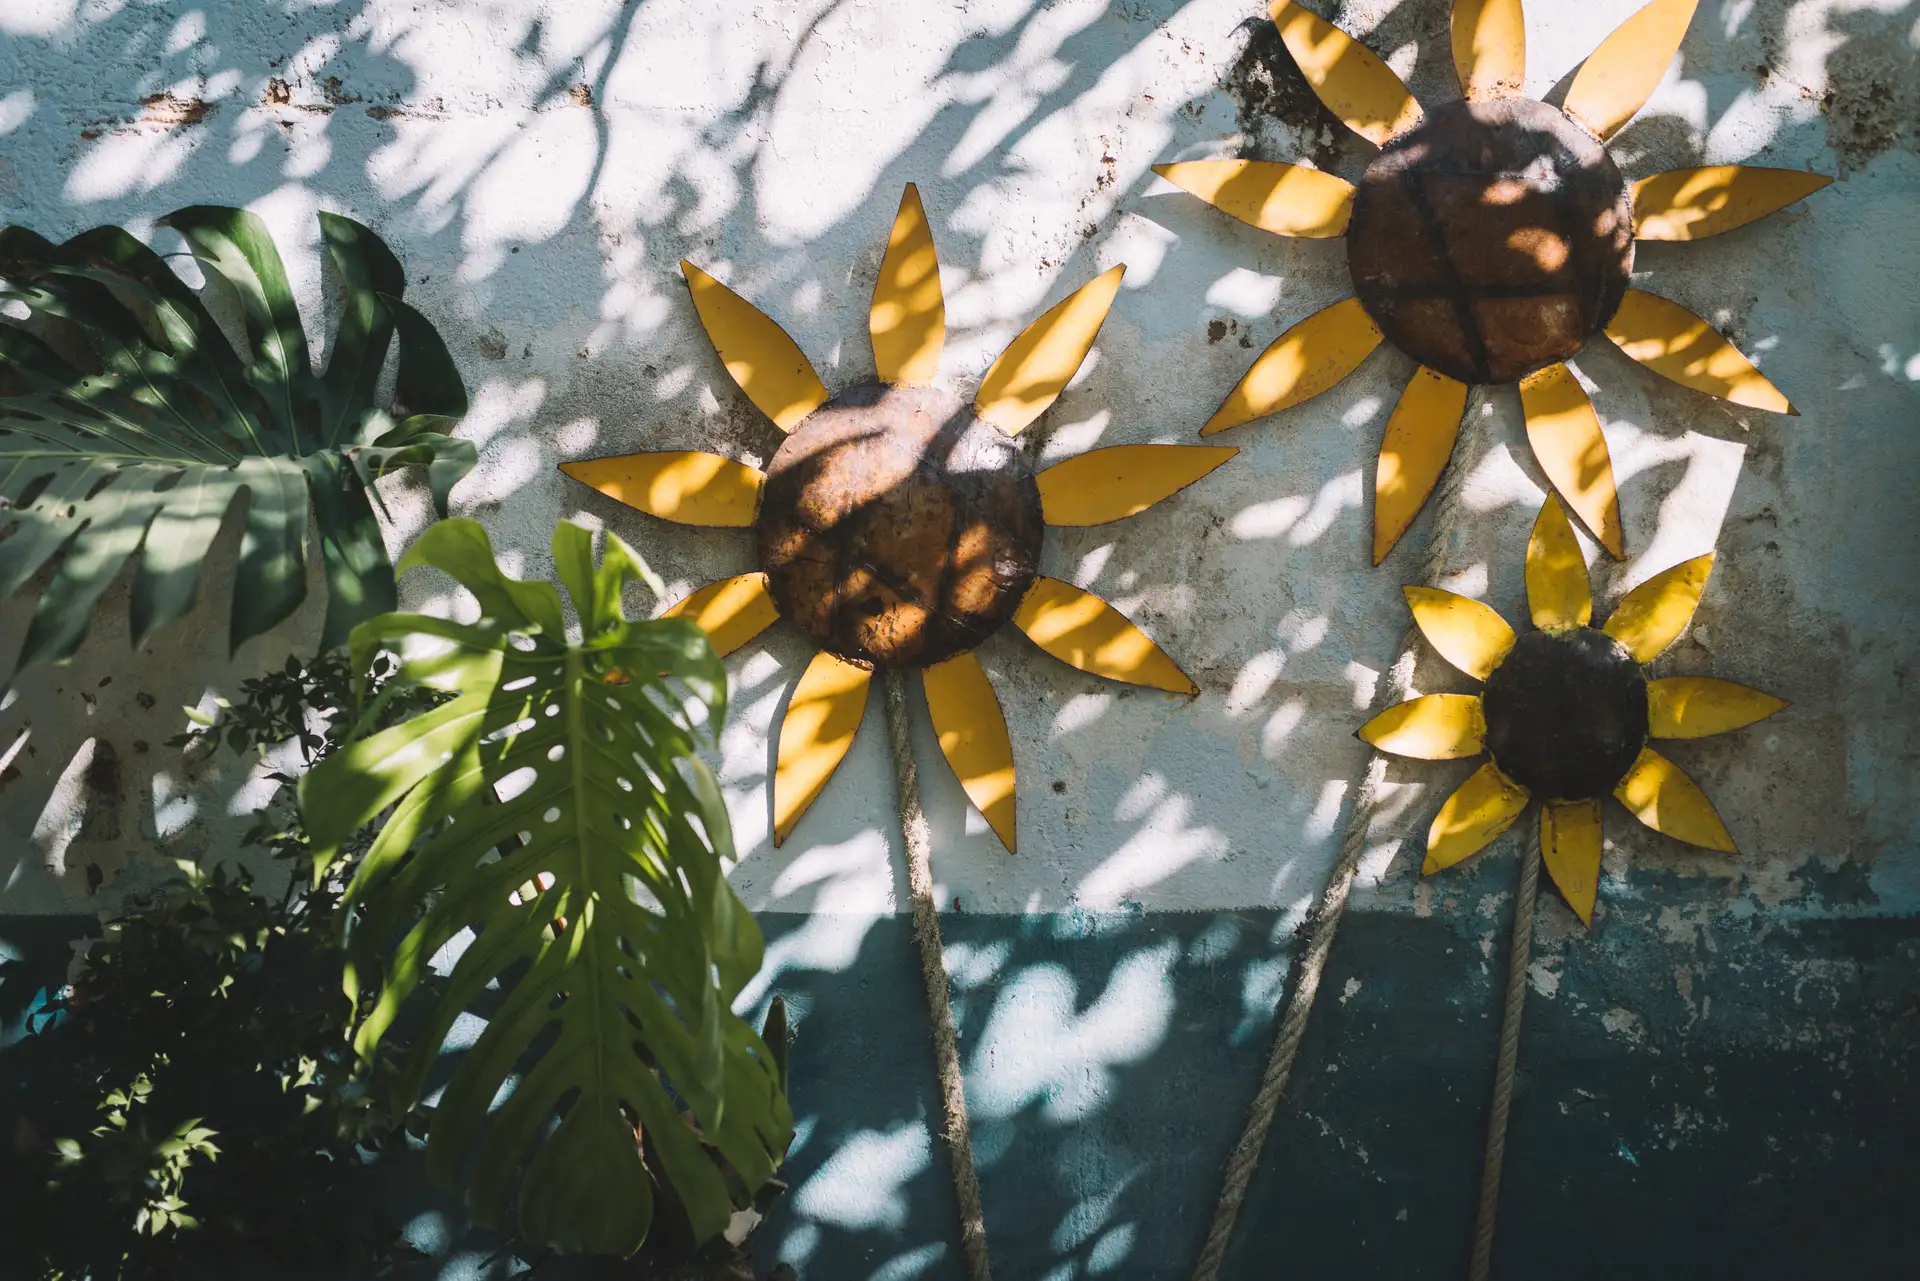
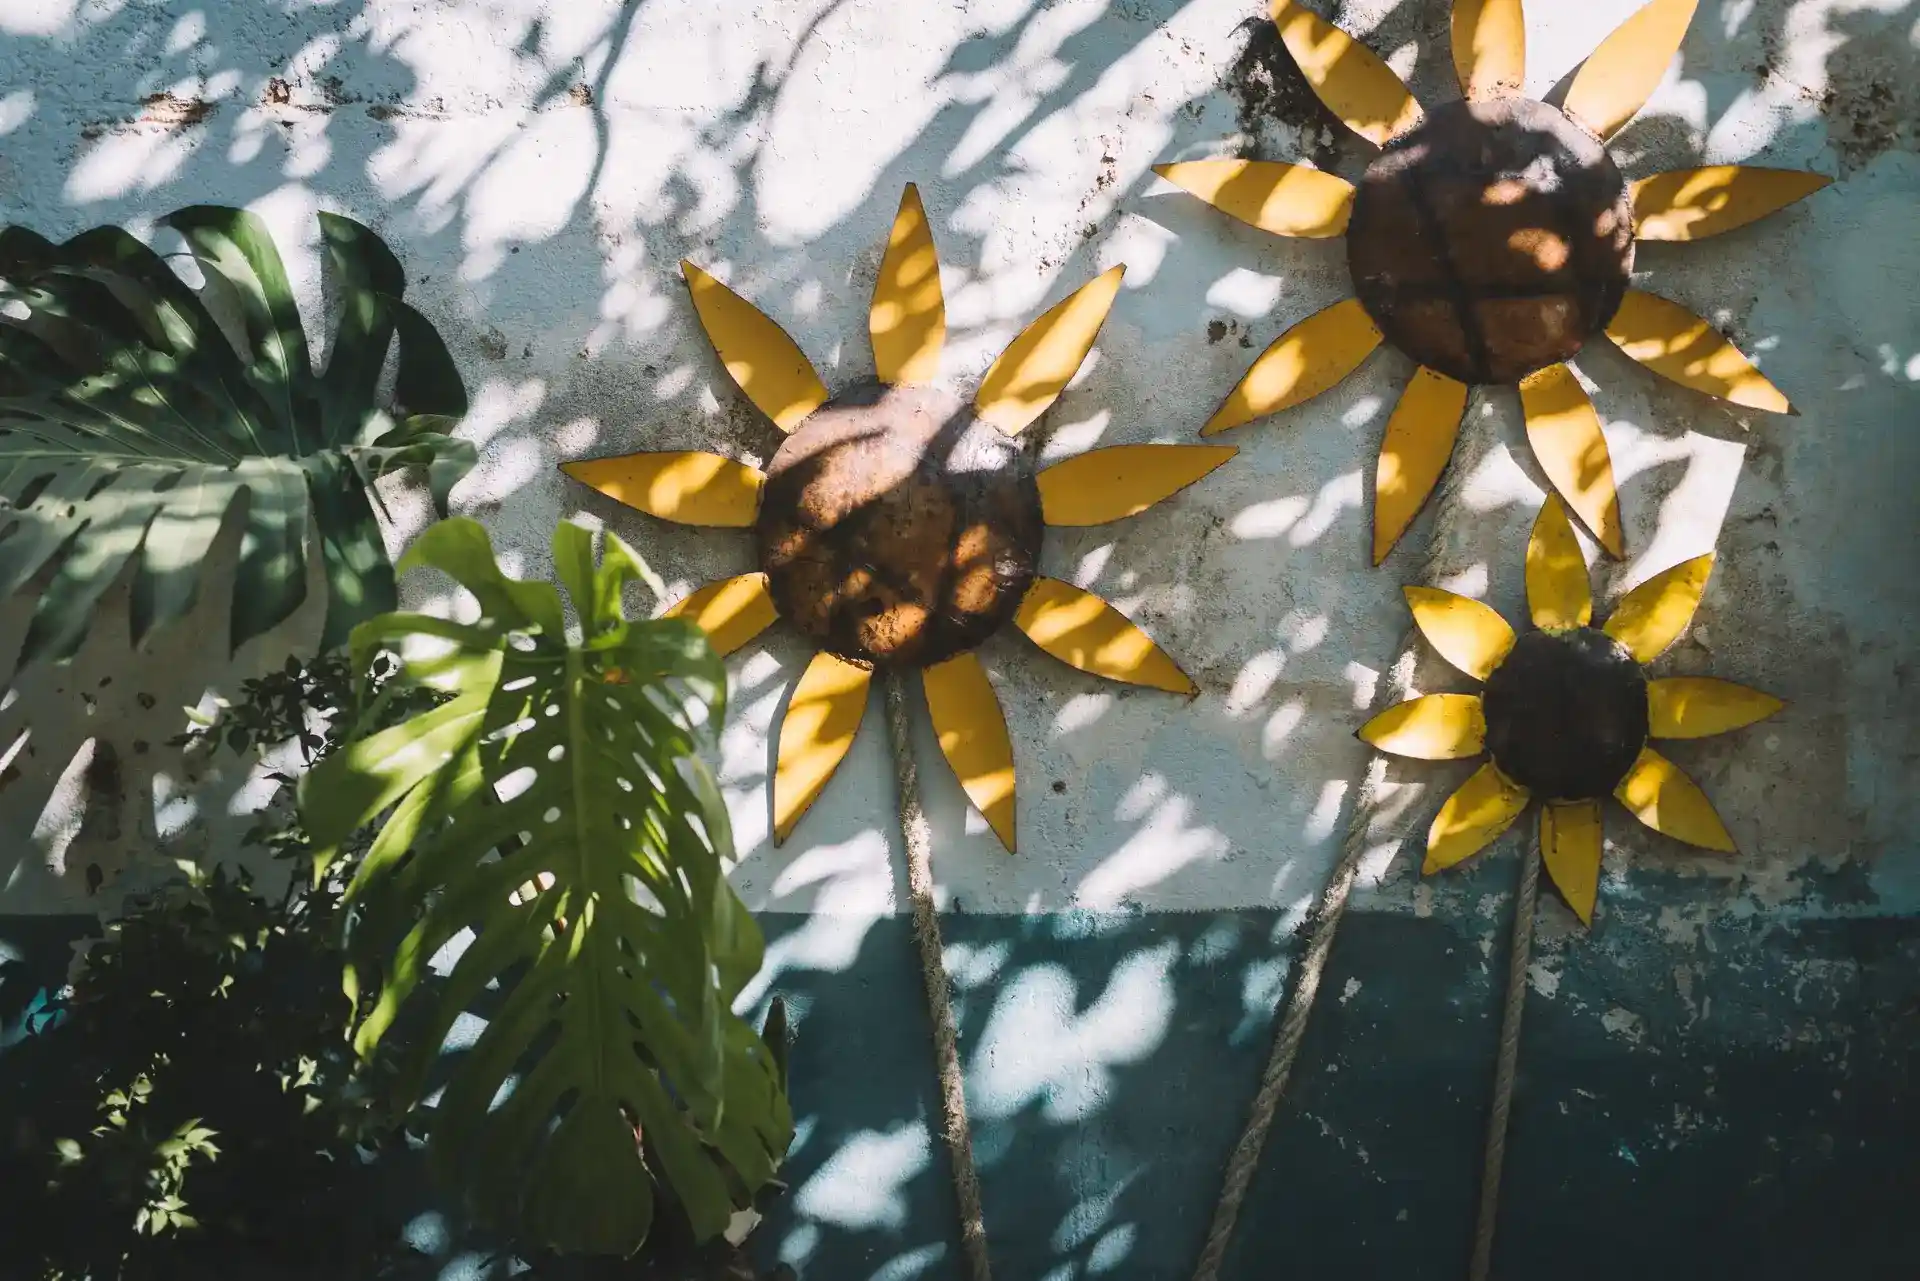
adsda

diff --git a/src/css/style.css b/src/css/style.css
@@ -452,9 +452,9 @@
         background: var(--clr-bg-green-gradient);
         opacity: 0.95;
         border-radius: 1.5rem;
-        box-shadow:
+        /* box-shadow:
           0 3px 14px rgba(0, 0, 0, 0.25),
-          inset 0 0 0 1px rgba(0, 0, 0, 0.08);
+          inset 0 0 0 1px rgba(0, 0, 0, 0.08); */
 
         &::before {
           content: "";
@@ -466,7 +466,7 @@
           background: var(--clr-green-300);
           border-radius: 50%;
           transform: translateX(-50%);
-          box-shadow: 0 2px 4px rgba(0, 0, 0, 0.4);
+          /* box-shadow: 0 2px 4px rgba(0, 0, 0, 0.4); */
 
           @media (width > 62.5rem) {
             width: 0.5rem;
@@ -528,7 +528,7 @@
     opacity: 1;
     translate: -50% -50%;
     rotate: -10deg;
-    filter: drop-shadow(4px 2px 2px rgba(0, 0, 0, 0.45));
+    /* filter: drop-shadow(4px 2px 2px rgba(0, 0, 0, 0.45)); */
     border-radius: 2rem;
 
     @media (width > 62.5rem) {
@@ -554,10 +554,10 @@
     width: 100%;
     border-radius: 0.75rem;
     cursor: pointer;
-    box-shadow:
+    /* box-shadow:
       0 6px 12px rgba(0, 0, 0, 0.4),
       0 4px 8px rgba(0, 0, 0, 0.2),
-      0 0 0 1px rgba(255, 255, 255, 0.04);
+      0 0 0 1px rgba(255, 255, 255, 0.04); */
   }
 
   .gallery-book-svg-box__wrapper--beer-fest {
@@ -641,12 +641,12 @@
       object-fit: cover;
       border-radius: 20px;
       opacity: 0;
-      box-shadow: 2px 2px 10px rgba(0, 0, 0, 0.533);
+      /* box-shadow: 2px 2px 10px rgba(0, 0, 0, 0.533); */
       cursor: pointer !important;
 
       &:hover {
         animation: vibrate 3s linear infinite;
-        box-shadow: 3px 3px 15px rgba(0, 0, 0, 0.703);
+        /* box-shadow: 3px 3px 15px rgba(0, 0, 0, 0.703); */
       }
 
       @media (width > 35rem) {
@@ -666,7 +666,7 @@
     text-transform: uppercase;
     cursor: pointer;
     border: none;
-    box-shadow: 3px 2px 4px var(--clr-lighter-black);
+   /*  box-shadow: 3px 2px 4px var(--clr-lighter-black); */
     z-index: 20;
     transition:
       transform 0.2s ease-out,
@@ -695,7 +695,6 @@
     border: none;
     font-size: 2rem;
     cursor: pointer;
-    box-shadow: 0 4px 8px rgba(0, 0, 0, 0.2);
     align-items: center;
     justify-content: center;
     z-index: 1000;

diff --git a/.eleventy.js b/.eleventy.js
@@ -3,7 +3,7 @@ export default function (eleventyConfig) {
     "./src/css": "css",
     "./src/js": "js",
     "./src/admin": "admin",
-    "./src/assets": "assets",
+    /* "./src/assets": "assets", */
   });
 
   return {

diff --git a/src/js/script.js b/src/js/script.js
@@ -97,7 +97,7 @@ function initPageScripts() {
 ///////////////////////////////////////////////////////////* Home intro animations *//////////////////////////////////////////////////////////////////////////*
 
 function gsapOpeningHomeAnimations() {
-  /* return; */
+  return;
 
   const body = document.querySelector("body");
   const home = document.querySelector("body.home");